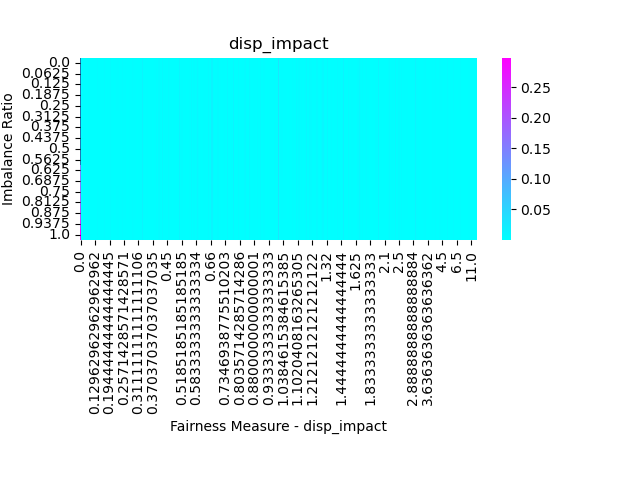
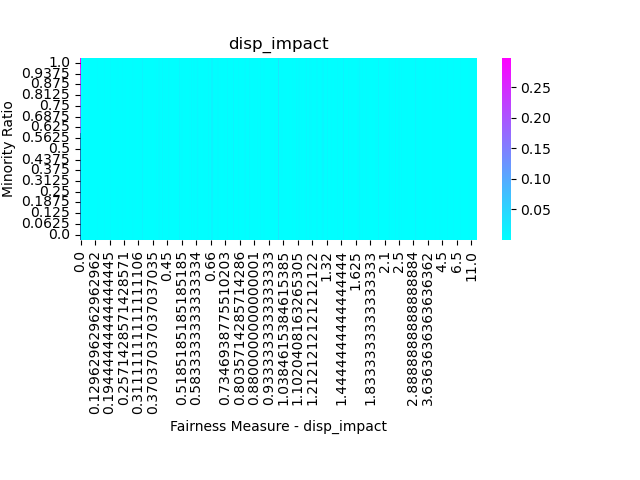
rename y ax to minority ratio & flip y values

Changed region(s): [[0.0, 0.125, 0.0938, 0.5]]

diff --git a/main.py b/main.py
@@ -6,6 +6,7 @@ import pickle
 import pandas as pd
 import matplotlib.pyplot as plt
 import seaborn as sns
+from matplotlib.ticker import FormatStrFormatter
 
 
 def the_ratio(n, k):
@@ -203,9 +204,14 @@ def create_heatmap(df, fair_measure):
     df1['probability'] = df1.counts / df1.ir_counts
     print(df1)
     heatm = sns.heatmap(df1.pivot('ir', fair_measure, values='probability'), annot=False, cmap='cool')
+    # majorFormatter = FormatStrFormatter('%0.2f')
+    # heatm.xaxis.set_major_formatter(majorFormatter)
+    # heatm.yaxis.set_major_formatter(majorFormatter)
+    
+    heatm.invert_yaxis()
     plt.title(str(fair_measure))
     plt.xlabel(f"Fairness Measure - {fair_measure}")
-    plt.ylabel("Imbalance Ratio")
+    plt.ylabel("Minority Ratio")
     plt.subplots_adjust(bottom=0.50)
     #print(df1)
     #plt.show()
